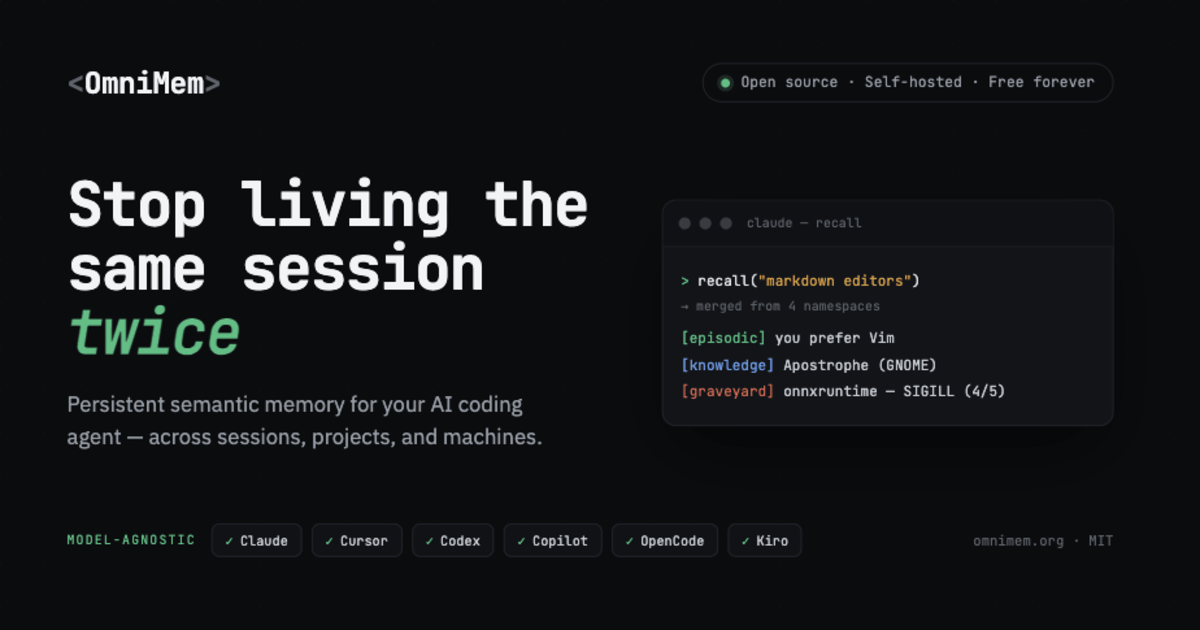
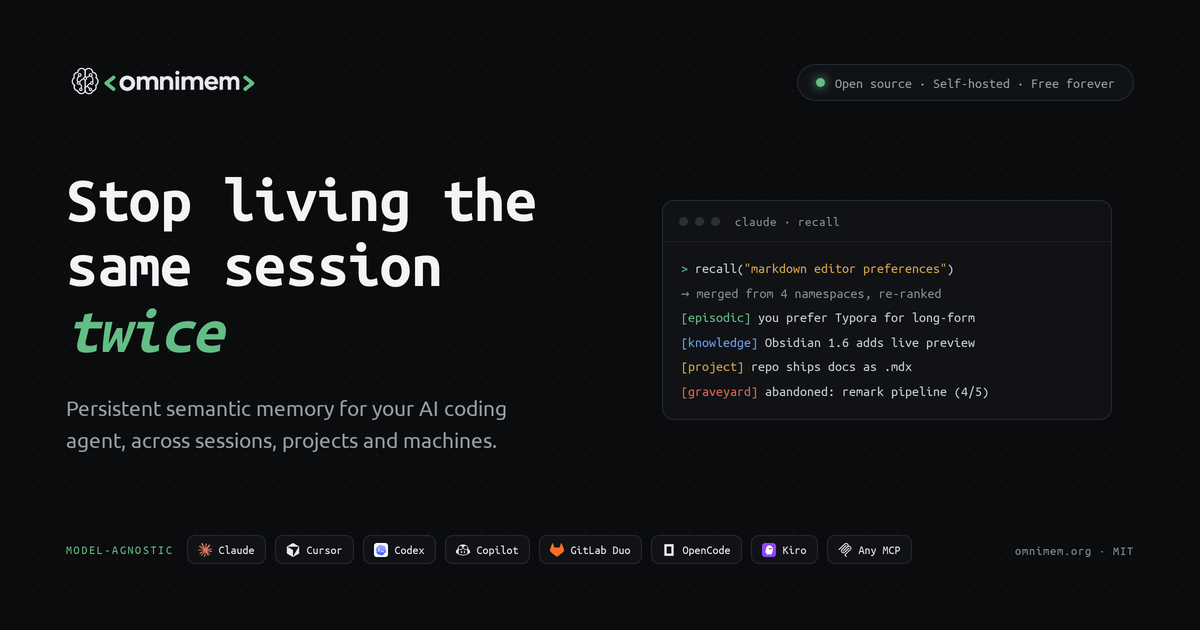
site: tile cluster for the works-with section
Replaces the row of labelled chips with an icon tile grid: three centred
rows with the OmniMem mark in the middle, a radial edge fade, and the
heading, copy and outline button alongside. All ten destinations survive
as tiles, each with an aria-label and a CSS-only tooltip, so the product
name is still reachable now the visible label has gone. Stacks and
centres below 860px.

Also drops the X handle from the card meta, rebuilds the social card with
the new logo, and adds the brain mark asset the centre tile uses.

Claude-Session: https://claude.ai/code/session_01HWqtyPdN5MHxqoVM3Sj9xD

diff --git a/index.html b/index.html
@@ -26,7 +26,6 @@
   <meta name="twitter:description" content="Stop living the same session twice. A self-hosted MCP server that gives any AI agent persistent memory across sessions, projects, and machines. Open source, MIT licensed.">
   <meta name="twitter:image" content="https://omnimem.org/omnimem-social.png">
   <meta name="twitter:image:alt" content="OmniMem: persistent semantic memory for AI coding agents.">
-  <meta name="twitter:site" content="@Ric">
   <link rel="icon" href="favicon.ico" sizes="any">
   <link rel="icon" href="favicon-32.png" sizes="32x32" type="image/png">
   <link rel="icon" href="favicon-16.png" sizes="16x16" type="image/png">
@@ -109,6 +108,24 @@ html,body{height:100%;margin:0}#dc-root,#dc-root>.sc-host{height:100%}
   .omm-wordmark-bracket{color:#63bd85}
   .omm-wordmark img{height:28px;width:auto;display:block}
   .omm-footer-wordmark img{height:32px;width:auto;display:block}
+.omm-int{display:grid;grid-template-columns:minmax(0,1fr) minmax(0,1fr);gap:clamp(28px,5vw,64px);align-items:center}
+.omm-int-grid{--omm-t:clamp(52px,7vw,76px);--omm-g:clamp(8px,1vw,12px);position:relative;display:flex;flex-direction:column;gap:var(--omm-g);align-items:center}
+.omm-int-row{display:flex;gap:var(--omm-g);justify-content:center}
+.omm-int-tile{position:relative;width:var(--omm-t);height:var(--omm-t);display:flex;align-items:center;justify-content:center;border-radius:14px;background:rgb(16,18,22);border:1px solid rgb(38,42,49);box-shadow:inset 0 1px 0 rgba(255,255,255,.03);transition:border-color .18s,background .18s,transform .18s}
+.omm-int-tile img{width:52%;height:52%;object-fit:contain;display:block}
+a.omm-int-tile:hover,a.omm-int-tile:focus-visible{border-color:rgb(99,189,133);background:rgb(20,24,28);transform:translateY(-2px);z-index:3}
+a.omm-int-tile::after{content:attr(data-name);position:absolute;bottom:calc(100% + 8px);left:50%;transform:translateX(-50%);white-space:nowrap;font-family:"Ubuntu Mono",monospace;font-size:12px;color:rgb(231,233,236);background:rgb(22,25,30);border:1px solid rgb(38,42,49);border-radius:6px;padding:4px 8px;opacity:0;pointer-events:none;transition:opacity .15s}
+a.omm-int-tile:hover::after,a.omm-int-tile:focus-visible::after{opacity:1}
+.omm-int-mark{border-color:rgba(99,189,133,.55);background:rgb(13,22,17);box-shadow:0 0 0 1px rgba(99,189,133,.12),0 0 34px rgba(99,189,133,.18)}
+.omm-int-mark img{width:58%;height:58%}
+.omm-int-fade{position:absolute;inset:-18px 0;z-index:2;pointer-events:none;background:radial-gradient(ellipse at center,rgba(13,14,17,0) 46%,rgba(13,14,17,.62) 92%)}
+.omm-int-eyebrow{display:block;font-family:"Ubuntu Mono",monospace;font-size:11px;letter-spacing:.14em;text-transform:uppercase;color:rgb(99,189,133);margin:0 0 12px}
+.omm-int-h2{font-family:Ubuntu,sans-serif;font-weight:700;font-size:34px;line-height:1.15;letter-spacing:-.02em;margin:0 0 16px;color:rgb(242,244,246)}
+.omm-int-p{font-size:16.5px;line-height:1.7;color:rgb(150,156,165);margin:0 0 26px}
+.omm-int-btn{display:inline-block;font-family:"Ubuntu Mono",monospace;font-size:14px;color:rgb(231,233,236);background:rgb(22,25,30);border:1px solid rgb(38,42,49);padding:13px 22px;border-radius:8px;text-decoration:none;transition:border-color .18s,background .18s}
+.omm-int-btn:hover{border-color:rgb(99,189,133);background:rgb(26,30,36)}
+@media (max-width:860px){.omm-int{grid-template-columns:1fr;gap:34px}.omm-int-copy{text-align:center}.omm-int-h2{font-size:27px}}
+
   .omm-header-links{flex:1 1 0%;min-width:0;display:flex;gap:2px;align-items:center;justify-content:center}
   .omm-nav-link{font-family:"Ubuntu Mono",monospace;font-size:12.5px;color:#969ca5;padding:7px 10px;border-radius:6px;white-space:nowrap;transition:color .15s,background-color .15s}
   .omm-nav-link:hover{color:#e7e9ec;background:#16191e}
@@ -197,7 +214,7 @@ section[data-screen-label]{padding-top:52px!important;padding-bottom:52px!import
 #quickstart [style*="grid-template-columns: auto 1fr"]{grid-template-columns:auto minmax(0,1fr)!important}
 #lifecycle [style*="align-items: stretch"]{flex-direction:column!important}
 #lifecycle [style*="align-items: stretch"]>div[style*="rgb(65, 69, 76)"]{display:none!important}
-section[data-screen-label="Works with"] [style*="width: 1px"]{display:none!important}
+
 #comparison>div>:last-child{overflow-x:auto!important}
 #comparison [style*="grid-template-columns: 2fr 1fr 1fr 1.2fr"]{min-width:600px!important}
 [style*="font-size: 54px"]{font-size:32px!important}
@@ -399,28 +416,7 @@ section[data-screen-label="Works with"] [style*="width: 1px"]{display:none!impor
     </div>
     <button type="button" data-copy="" aria-label="Copy install command" style="font-family: &quot;Ubuntu Mono&quot;, monospace; font-size: 11px; color: rgb(150, 156, 165); background: transparent; border: 1px solid rgb(38, 42, 49); border-radius: 5px; padding: 3px 9px; cursor: pointer; flex: 0 0 auto;">copy</button>
   </div>
-  <p style="font-family: &quot;Ubuntu Mono&quot;, monospace; font-size: 12.5px; color: rgb(134, 140, 150); margin: 14px 0px 0px;">Paste that into your terminal, or if you'd rather do it by hand, follow the <a href="#quickstart">manual setup</a> below.</p></div></div><section data-screen-label="Works with" style="border-top: 1px solid rgb(27, 30, 36); background: rgb(13, 14, 17); padding: 38px 0px;">
-  <div style="max-width: 1200px; margin: 0px auto; padding: 0px 28px;">
-    <div style="display: flex; align-items: center; gap: 24px; flex-wrap: wrap; justify-content: center; text-align: center;">
-      <div style="display: flex; flex-direction: column; gap: 4px; min-width: 210px; text-align: left;">
-        <span style="font-family: &quot;Ubuntu Mono&quot;, monospace; font-size: 11px; letter-spacing: 0.14em; text-transform: uppercase; color: rgb(99, 189, 133);">Model-agnostic</span>
-        <span style="font-family: &quot;Ubuntu Mono&quot;, monospace; font-size: 13.5px; color: rgb(150, 156, 165); line-height: 1.5;">If it speaks MCP, it works. <br>One memory layer for all of your agents.</span>
-      </div>
-      <div style="width: 1px; align-self: stretch; background: rgb(27, 30, 36);"></div>
-      <div style="display: flex; flex-wrap: wrap; gap: 10px; justify-content: center; flex: 1 1 0%;">
-        <a href="https://code.squarecows.com/ric/omnimem/src/branch/main/guides/claude-desktop.md" target="_blank" rel="noopener" class="scp0" style="display: inline-flex; align-items: center; gap: 8px; padding: 9px 14px; background: rgb(16, 18, 22); border: 1px solid rgb(38, 42, 49); border-radius: 9px; font-family: &quot;Ubuntu Mono&quot;, monospace; font-size: 12.5px; color: rgb(201, 205, 211); text-decoration: none;"><img src="icons/claude.svg" alt="" width="16" height="16" loading="lazy" decoding="async">Claude Desktop</a>
-        <a href="https://code.squarecows.com/ric/omnimem/src/branch/main/guides/claude-web.md" target="_blank" rel="noopener" class="scp0" style="display: inline-flex; align-items: center; gap: 8px; padding: 9px 14px; background: rgb(16, 18, 22); border: 1px solid rgb(38, 42, 49); border-radius: 9px; font-family: &quot;Ubuntu Mono&quot;, monospace; font-size: 12.5px; color: rgb(201, 205, 211); text-decoration: none;"><img src="icons/claude.svg" alt="" width="16" height="16" loading="lazy" decoding="async">Claude Web</a>
-        <a href="https://code.squarecows.com/ric/omnimem/src/branch/main/guides/claude-code.md" target="_blank" rel="noopener" class="scp0" style="display: inline-flex; align-items: center; gap: 8px; padding: 9px 14px; background: rgb(16, 18, 22); border: 1px solid rgb(38, 42, 49); border-radius: 9px; font-family: &quot;Ubuntu Mono&quot;, monospace; font-size: 12.5px; color: rgb(201, 205, 211); text-decoration: none;"><img src="icons/claude-code.svg" alt="" width="16" height="16" loading="lazy" decoding="async">Claude Code</a>
-        <a href="https://code.squarecows.com/ric/omnimem/src/branch/main/guides/codex.md" target="_blank" rel="noopener" class="scp0" style="display: inline-flex; align-items: center; gap: 8px; padding: 9px 14px; background: rgb(16, 18, 22); border: 1px solid rgb(38, 42, 49); border-radius: 9px; font-family: &quot;Ubuntu Mono&quot;, monospace; font-size: 12.5px; color: rgb(201, 205, 211); text-decoration: none;"><img src="icons/codex.svg" alt="" width="16" height="16" loading="lazy" decoding="async">Codex</a>
-        <a href="https://code.squarecows.com/ric/omnimem/src/branch/main/guides/opencode.md" target="_blank" rel="noopener" class="scp0" style="display: inline-flex; align-items: center; gap: 8px; padding: 9px 14px; background: rgb(16, 18, 22); border: 1px solid rgb(38, 42, 49); border-radius: 9px; font-family: &quot;Ubuntu Mono&quot;, monospace; font-size: 12.5px; color: rgb(201, 205, 211); text-decoration: none;"><img src="icons/opencode.svg" alt="" width="16" height="16" loading="lazy" decoding="async">OpenCode</a>
-        <a href="https://code.squarecows.com/ric/omnimem/src/branch/main/guides/kiro.md" target="_blank" rel="noopener" class="scp0" style="display: inline-flex; align-items: center; gap: 8px; padding: 9px 14px; background: rgb(16, 18, 22); border: 1px solid rgb(38, 42, 49); border-radius: 9px; font-family: &quot;Ubuntu Mono&quot;, monospace; font-size: 12.5px; color: rgb(201, 205, 211); text-decoration: none;"><img src="icons/kiro.svg" alt="" width="16" height="16" loading="lazy" decoding="async">Kiro</a>
-        <a href="https://code.squarecows.com/ric/omnimem/src/branch/main/guides/github-copilot.md" target="_blank" rel="noopener" class="scp0" style="display: inline-flex; align-items: center; gap: 8px; padding: 9px 14px; background: rgb(16, 18, 22); border: 1px solid rgb(38, 42, 49); border-radius: 9px; font-family: &quot;Ubuntu Mono&quot;, monospace; font-size: 12.5px; color: rgb(201, 205, 211); text-decoration: none;"><img src="icons/github-copilot.svg" alt="" width="16" height="16" loading="lazy" decoding="async">GitHub Copilot</a>
-        <a href="https://code.squarecows.com/ric/omnimem/src/branch/main/guides/gitlab-duo.md" target="_blank" rel="noopener" class="scp0" style="display: inline-flex; align-items: center; gap: 8px; padding: 9px 14px; background: rgb(16, 18, 22); border: 1px solid rgb(38, 42, 49); border-radius: 9px; font-family: &quot;Ubuntu Mono&quot;, monospace; font-size: 12.5px; color: rgb(201, 205, 211); text-decoration: none;"><img src="icons/gitlab.svg" alt="" width="16" height="16" loading="lazy" decoding="async">GitLab Duo</a>
-        <a href="https://code.squarecows.com/ric/omnimem/src/branch/main/guides/cursor.md" target="_blank" rel="noopener" class="scp0" style="display: inline-flex; align-items: center; gap: 8px; padding: 9px 14px; background: rgb(16, 18, 22); border: 1px solid rgb(38, 42, 49); border-radius: 9px; font-family: &quot;Ubuntu Mono&quot;, monospace; font-size: 12.5px; color: rgb(201, 205, 211); text-decoration: none;"><img src="icons/cursor.svg" alt="" width="16" height="16" loading="lazy" decoding="async">Cursor</a>
-        <a href="https://modelcontextprotocol.io/" target="_blank" rel="noopener" class="scp0" style="display: inline-flex; align-items: center; gap: 8px; padding: 9px 14px; background: rgb(16, 18, 22); border: 1px solid rgb(38, 42, 49); border-radius: 9px; font-family: &quot;Ubuntu Mono&quot;, monospace; font-size: 12.5px; color: rgb(201, 205, 211); text-decoration: none;"><img src="icons/mcp.svg" alt="" width="16" height="16" loading="lazy" decoding="async">Anything via MCP</a>
-      </div>
-    </div>
-  </div></section><section id="problem" data-screen-label="Problem" style="border-top: 1px solid rgb(27, 30, 36); padding: 72px 0px;">
+  <p style="font-family: &quot;Ubuntu Mono&quot;, monospace; font-size: 12.5px; color: rgb(134, 140, 150); margin: 14px 0px 0px;">Paste that into your terminal, or if you'd rather do it by hand, follow the <a href="#quickstart">manual setup</a> below.</p></div></div><section data-screen-label="Works with" style="border-top: 1px solid rgb(27, 30, 36); background: rgb(13, 14, 17); padding: clamp(56px, 7vw, 82px) 0px;"><div style="max-width: 1200px; margin: 0px auto; padding: 0px 28px;"><div class="omm-int"><div class="omm-int-grid"><div class="omm-int-fade" aria-hidden="true"></div><div class="omm-int-row"><a class="omm-int-tile" data-name="Claude Desktop" href="https://code.squarecows.com/ric/omnimem/src/branch/main/guides/claude-desktop.md" target="_blank" rel="noopener" aria-label="Claude Desktop"><img src="icons/claude.svg" alt="" width="32" height="32" loading="lazy" decoding="async"></a><a class="omm-int-tile" data-name="Codex" href="https://code.squarecows.com/ric/omnimem/src/branch/main/guides/codex.md" target="_blank" rel="noopener" aria-label="Codex"><img src="icons/codex.svg" alt="" width="32" height="32" loading="lazy" decoding="async"></a><a class="omm-int-tile" data-name="Cursor" href="https://code.squarecows.com/ric/omnimem/src/branch/main/guides/cursor.md" target="_blank" rel="noopener" aria-label="Cursor"><img src="icons/cursor.svg" alt="" width="32" height="32" loading="lazy" decoding="async"></a></div><div class="omm-int-row"><a class="omm-int-tile" data-name="OpenCode" href="https://code.squarecows.com/ric/omnimem/src/branch/main/guides/opencode.md" target="_blank" rel="noopener" aria-label="OpenCode"><img src="icons/opencode.svg" alt="" width="32" height="32" loading="lazy" decoding="async"></a><a class="omm-int-tile" data-name="GitHub Copilot" href="https://code.squarecows.com/ric/omnimem/src/branch/main/guides/github-copilot.md" target="_blank" rel="noopener" aria-label="GitHub Copilot"><img src="icons/github-copilot.svg" alt="" width="32" height="32" loading="lazy" decoding="async"></a><span class="omm-int-tile omm-int-mark" aria-hidden="true"><img src="images/omnimem-mark.png" alt="" width="40" height="40" decoding="async"></span><a class="omm-int-tile" data-name="GitLab Duo" href="https://code.squarecows.com/ric/omnimem/src/branch/main/guides/gitlab-duo.md" target="_blank" rel="noopener" aria-label="GitLab Duo"><img src="icons/gitlab.svg" alt="" width="32" height="32" loading="lazy" decoding="async"></a><a class="omm-int-tile" data-name="Kiro" href="https://code.squarecows.com/ric/omnimem/src/branch/main/guides/kiro.md" target="_blank" rel="noopener" aria-label="Kiro"><img src="icons/kiro.svg" alt="" width="32" height="32" loading="lazy" decoding="async"></a></div><div class="omm-int-row"><a class="omm-int-tile" data-name="Claude Code" href="https://code.squarecows.com/ric/omnimem/src/branch/main/guides/claude-code.md" target="_blank" rel="noopener" aria-label="Claude Code"><img src="icons/claude-code.svg" alt="" width="32" height="32" loading="lazy" decoding="async"></a><a class="omm-int-tile" data-name="Anything via MCP" href="https://modelcontextprotocol.io/" target="_blank" rel="noopener" aria-label="Anything via MCP"><img src="icons/mcp.svg" alt="" width="32" height="32" loading="lazy" decoding="async"></a><a class="omm-int-tile" data-name="Claude Web" href="https://code.squarecows.com/ric/omnimem/src/branch/main/guides/claude-web.md" target="_blank" rel="noopener" aria-label="Claude Web"><img src="icons/claude.svg" alt="" width="32" height="32" loading="lazy" decoding="async"></a></div></div><div class="omm-int-copy"><span class="omm-int-eyebrow">Model-agnostic</span><h2 class="omm-int-h2">Works with the tools you already use</h2><p class="omm-int-p">If it speaks MCP, it works. One memory layer for every agent you run, on hardware you own. Each tile links to its setup guide.</p><a class="omm-int-btn" href="https://code.squarecows.com/ric/omnimem/src/branch/main/guides" target="_blank" rel="noopener">Read the setup guides</a></div></div></div></section><section id="problem" data-screen-label="Problem" style="border-top: 1px solid rgb(27, 30, 36); padding: 72px 0px;">
   <div style="max-width: 1200px; margin: 0px auto; padding: 0px 28px;">
     <div style="display: flex; align-items: baseline; gap: 12px; margin-bottom: 20px;">
       <span style="font-family: &quot;Ubuntu Mono&quot;, monospace; font-size: 12px; letter-spacing: 0.16em; text-transform: uppercase; color: rgb(99, 189, 133);">The problem</span>
